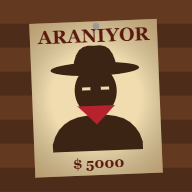
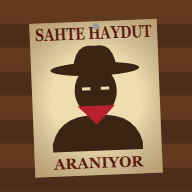
Oyunun adı Sahte Haydut oldu

Changed region(s): [[0.1875, 0.125, 0.8125, 0.25], [0.2812, 0.8125, 0.75, 0.9062]]

diff --git a/araclar/ikon-ciz.html b/araclar/ikon-ciz.html
@@ -1,6 +1,6 @@
 <!DOCTYPE html>
 <!--
-  Aranıyor! - uygulama simgesi (eski "aranıyor" afişi). Adres sonuna ?boyut=512 yazılır.
+  Sahte Haydut - uygulama simgesi (eski "aranıyor" afişi). Adres sonuna ?boyut=512 yazılır.
   PNG için: msedge --headless=new --user-data-dir=<geçici klasör> --hide-scrollbars --window-size=512,512 --screenshot=ikonlar/ikon-512.png "file:///.../araclar/ikon-ciz.html?boyut=512"
 -->
 <html>
@@ -22,7 +22,7 @@
   const kenar = g.createRadialGradient(0, 0, 120, 0, 0, 280); kenar.addColorStop(0, 'rgba(0,0,0,0)'); kenar.addColorStop(1, 'rgba(120,70,20,0.45)');
   g.fillStyle = kenar; g.fillRect(-170, -205, 340, 410);
   g.fillStyle = '#5a1a0e'; g.textAlign = 'center';
-  g.font = 'bold 50px Georgia, serif'; g.fillText('ARANIYOR', 0, -150, 300);
+  g.font = 'bold 46px Georgia, serif'; g.fillText('SAHTE HAYDUT', 0, -158, 310);
   // Kovboy silüeti
   g.fillStyle = '#3b2414';
   g.beginPath(); g.ellipse(0, -20, 56, 66, 0, 0, 7); g.fill();                     // baş
@@ -31,7 +31,7 @@
   g.beginPath(); g.moveTo(-120, 120); g.quadraticCurveTo(-100, 40, 0, 45); g.quadraticCurveTo(100, 40, 120, 120); g.lineTo(120, 140); g.lineTo(-120, 140); g.fill();
   g.fillStyle = '#b8222c'; g.beginPath(); g.moveTo(-50, 20); g.lineTo(50, 20); g.lineTo(0, 70); g.fill();   // bandana
   g.fillStyle = '#f0dcae'; g.fillRect(-36, -30, 22, 8); g.fillRect(14, -30, 22, 8);                            // gözler
-  g.fillStyle = '#5a1a0e'; g.font = 'bold 38px Georgia, serif'; g.fillText('$ 5000', 0, 186);
+  g.fillStyle = '#5a1a0e'; g.font = 'bold 40px Georgia, serif'; g.fillText('ARANIYOR', 0, 186, 300);
   g.restore();
   // Çivi
   g.fillStyle = '#9a9a9a'; g.beginPath(); g.arc(256, 70, 9, 0, 7); g.fill();

diff --git a/index.html b/index.html
@@ -3,8 +3,8 @@
 <head>
   <meta charset="utf-8">
   <meta name="viewport" content="width=device-width, initial-scale=1, maximum-scale=1, user-scalable=no, viewport-fit=cover">
-  <title>Aranıyor!</title>
-  <meta name="description" content="Vahşi Batı kasabasında kalabalığa karış: haydutlar gizlice soygun yapar, şerifler kalabalığın içinden onları bulur.">
+  <title>Sahte Haydut</title>
+  <meta name="description" content="Sahte Haydut: Vahşi Batı kasabasında kalabalığa karış: haydutlar gizlice soygun yapar, şerifler kalabalığın içinden onları bulur.">
   <meta name="theme-color" content="#3b2414">
   <meta name="apple-mobile-web-app-capable" content="yes">
   <meta name="mobile-web-app-capable" content="yes">
@@ -21,7 +21,7 @@
   <!-- Giriş -->
   <section id="giris" class="ekran">
     <div class="kart afis">
-      <div class="afisUst">ARANIYOR!</div>
+      <div class="afisUst">SAHTE<br>HAYDUT</div>
       <p class="alt">Kasabada kalabalığa karış. <b>Haydutlar</b> kasabalı gibi gezip gizlice soygun yapar, <b>şerifler</b> kalabalığın içinden gerçek oyuncuları bulup vurur.</p>
       <label for="adim">Adın</label>
       <input id="adim" maxlength="14" placeholder="Adın" autocomplete="off">

diff --git a/sw.js b/sw.js
@@ -1,9 +1,9 @@
 // =============================================================
-// Aranıyor! - servis çalışanı (ana ekrana ekleme + çevrimdışı kopya)
+// Sahte Haydut - servis çalışanı (ana ekrana ekleme + çevrimdışı kopya)
 // Oyunu güncelleyip yüklerken ONBELLEK numarasını 1 artır.
 // =============================================================
 
-const ONBELLEK = 'araniyor-v1';
+const ONBELLEK = 'sahte-haydut-v1';
 const DOSYALAR = [
   './', 'index.html', 'style.css', 'kasaba.js', 'karakter.js', 'sahne.js', 'ag.js', 'ses.js', 'motor.js', 'oyun.js',
   'manifest.webmanifest', 'ikonlar/ikon-192.png', 'ikonlar/ikon-512.png',
@@ -14,7 +14,7 @@ self.addEventListener('install', olay => {
   self.skipWaiting();
 });
 self.addEventListener('activate', olay => {
-  olay.waitUntil(caches.keys().then(adlar => Promise.all(adlar.filter(a => a.startsWith('araniyor-') && a !== ONBELLEK).map(a => caches.delete(a)))));
+  olay.waitUntil(caches.keys().then(adlar => Promise.all(adlar.filter(a => a.startsWith('sahte-haydut-') && a !== ONBELLEK).map(a => caches.delete(a)))));
   self.clients.claim();
 });
 // Önce internet (en yeni sürüm), olmazsa kayıtlı kopya

diff --git a/ag.js b/ag.js
@@ -1,12 +1,12 @@
 // =============================================================
-// Aranıyor! - online oda (PeerJS) ve sesli sohbet
+// Sahte Haydut - online oda (PeerJS) ve sesli sohbet
 // Odayı açan "ev"dir: kasabalıları o yürütür, kuralları o işletir. Diğerleri evle konuşur.
 // Ses: mikrofonu açık herkes birbirine bağlanır; kimin kimi ne kadar duyacağını
 // (yakınlık, telsiz, ölüler) ev hesaplar ve herkese ses seviyesi tablosu yollar.
 // =============================================================
 
 const Ag = (() => {
-  const ODA_ONEKI = 'araniyor-oda-';
+  const ODA_ONEKI = 'sahtehaydut-oda-';
   const KOD_HARF = 'ABCDEFGHJKLMNPRSTUVYZ23456789';
   const NABIZ = 2000, ZAMAN_ASIMI = 15000;
   const ag = { peer: null, mod: null, kod: null, benimId: null, oyuncular: [], baglantilar: new Map(), ev: null, sonEv: 0 };

diff --git a/motor.js b/motor.js
@@ -1,5 +1,5 @@
 // =============================================================
-// Aranıyor! - oyun kuralları (sadece odayı açan "ev"de çalışır)
+// Sahte Haydut - oyun kuralları (sadece odayı açan "ev"de çalışır)
 // Kasabalıları yürütür, görevleri/atışları/kılık değiştirmeyi işler, kazananı bulur.
 // Herkes kasabada bir "varlık"tır; varlık numaraları karışıktır, kimin oyuncu olduğu numaradan anlaşılmaz.
 // =============================================================

diff --git a/kasaba.js b/kasaba.js
@@ -1,5 +1,5 @@
 // =============================================================
-// Aranıyor! - kasaba haritası: binalar, görevler, kılık noktaları, yürüme ağı
+// Sahte Haydut - kasaba haritası: binalar, görevler, kılık noktaları, yürüme ağı
 // Herkeste aynı (rastgele değil). Koordinatlar metre: x doğu (+), z güney (+).
 // =============================================================
 

diff --git a/karakter.js b/karakter.js
@@ -1,5 +1,5 @@
 // =============================================================
-// Aranıyor! - 10 insan karakter (Three.js kutularından), yürüme animasyonu, takım çizgisi
+// Sahte Haydut - 10 insan karakter (Three.js kutularından), yürüme animasyonu, takım çizgisi
 // Karakter +z yönüne bakar; grup.rotation.y = yön.
 // =============================================================
 

diff --git a/ses.js b/ses.js
@@ -1,5 +1,5 @@
 // =============================================================
-// Aranıyor! - oyun sesleri (dosya yok, tarayıcı kendisi üretir). Sesli sohbet ayrı (ag.js).
+// Sahte Haydut - oyun sesleri (dosya yok, tarayıcı kendisi üretir). Sesli sohbet ayrı (ag.js).
 // =============================================================
 
 const Ses = (() => {

diff --git a/oyun.js b/oyun.js
@@ -1,5 +1,5 @@
 // =============================================================
-// Aranıyor! - oyuncunun ekranı: giriş/lobi, kamera, yürüme, ateş, görev, harita, bildirim, ses
+// Sahte Haydut - oyuncunun ekranı: giriş/lobi, kamera, yürüme, ateş, görev, harita, bildirim, ses
 // =============================================================
 
 (() => {

diff --git a/sahne.js b/sahne.js
@@ -1,5 +1,5 @@
 // =============================================================
-// Aranıyor! - 3D kasaba sahnesi (Three.js) ve küçük harita çizimi
+// Sahte Haydut - 3D kasaba sahnesi (Three.js) ve küçük harita çizimi
 // =============================================================
 
 const Sahne = (() => {
